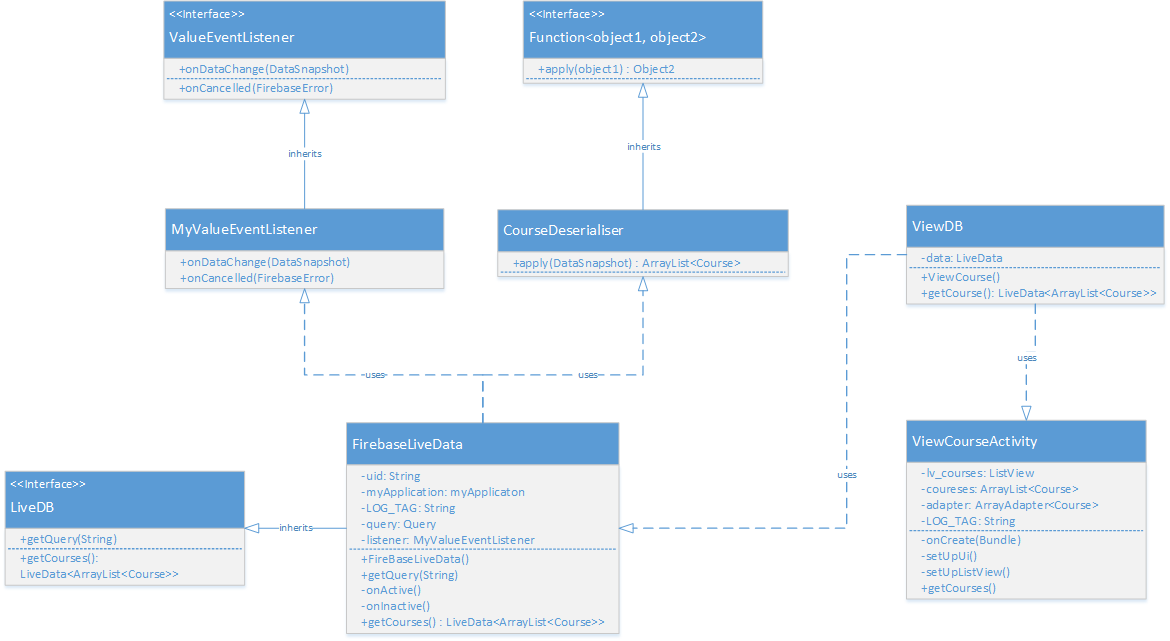
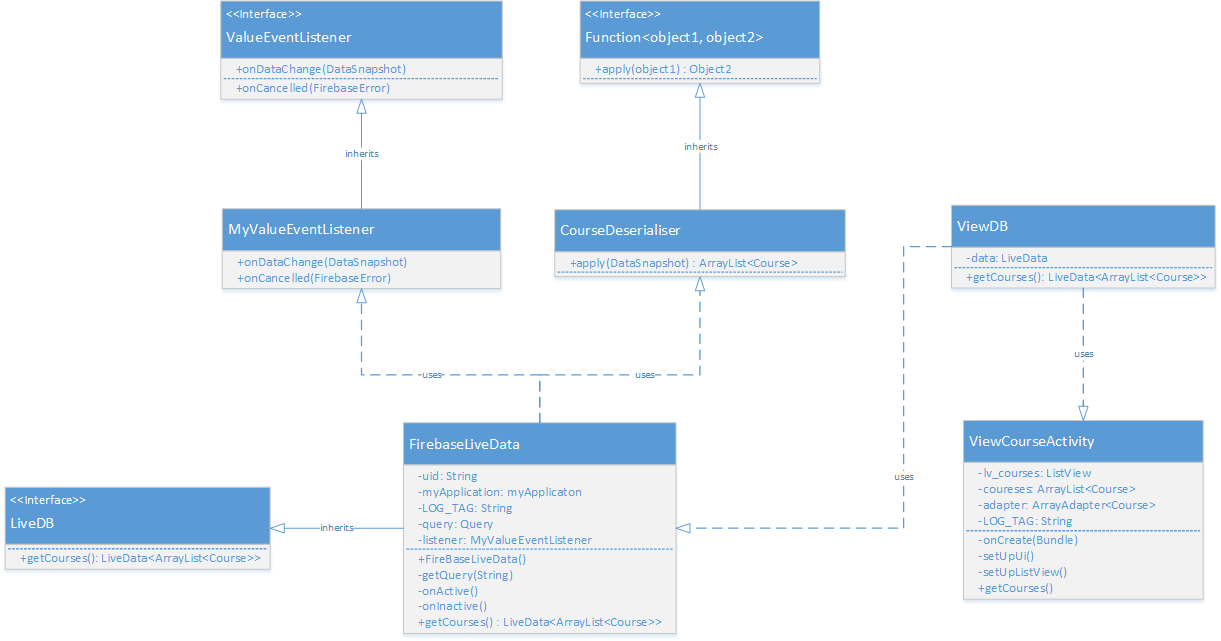
Final changes with code and updated diagrams

diff --git a/app/src/main/java/com/jevon/studentrollrecorder/ViewCoursesActivity.java b/app/src/main/java/com/jevon/studentrollrecorder/ViewCoursesActivity.java
@@ -13,7 +13,7 @@ import android.widget.ListView;
 import android.widget.Toast;
 
 import android.arch.lifecycle.Observer;
-import com.jevon.studentrollrecorder.observers.ViewCourse;
+import com.jevon.studentrollrecorder.mediators.ViewDB;
 import com.jevon.studentrollrecorder.pojo.Course;
 import com.jevon.studentrollrecorder.utils.Utils;
 
@@ -23,7 +23,7 @@ import java.util.ArrayList;
 
 public class ViewCoursesActivity extends AppCompatActivity{
     private ListView lv_courses;
-    private ViewCourse viewModel;
+    private ViewDB viewModel;
     private ArrayList<Course> courses;
     private ArrayAdapter<Course> adapter;
     private static final String LOG_TAG = "ViewCourseActivity";
@@ -33,7 +33,7 @@ public class ViewCoursesActivity extends AppCompatActivity{
         super.onCreate(savedInstanceState);
         setContentView(R.layout.activity_view_courses);
         Toolbar toolbar = (Toolbar) findViewById(R.id.toolbar);
-        viewModel = new ViewCourse();
+        viewModel = new ViewDB();
         setSupportActionBar(toolbar);
         setUpUI();
         setUpListView();
@@ -71,11 +71,11 @@ public class ViewCoursesActivity extends AppCompatActivity{
 
     /**
      * 04086518
-     * ViewCourseActivity observes the ViewCourse to see if any data changes occur
+     * ViewCourseActivity observes the ViewDB to see if any data changes occur
      * and udpates the list of courses as necessary.
      */
     public void getCourses(){
-        viewModel.getCourseLiveData().observe(this, new Observer<ArrayList<Course>>(){
+        viewModel.getCourses().observe(this, new Observer<ArrayList<Course>>(){
             @Override
             public void onChanged(ArrayList<Course> courses) {
             if (courses.isEmpty() ){

diff --git a/app/src/main/java/com/jevon/studentrollrecorder/mediators/ViewDB.java b/app/src/main/java/com/jevon/studentrollrecorder/mediators/ViewDB.java
@@ -1,23 +1,22 @@
-package com.jevon.studentrollrecorder.observers;
+package com.jevon.studentrollrecorder.mediators;
 
 import android.arch.lifecycle.LiveData;
 import android.arch.lifecycle.ViewModel;
 
 import com.jevon.studentrollrecorder.interfaces.LiveDB;
+import com.jevon.studentrollrecorder.observers.FirebaseLiveData;
 import com.jevon.studentrollrecorder.pojo.Course;
 
 import java.util.ArrayList;
 
-/**
- * Will be used as an observer
- */
-public class ViewCourse {
+
+public class ViewDB {
     private LiveDB data;
 
     /**
      * Creata a new instance of FirebaseLiveData
      */
-    public ViewCourse(){
+    public ViewDB(){
         data = new FirebaseLiveData();
     }
 
@@ -25,7 +24,7 @@ public class ViewCourse {
      * Returns ArrayList of Courses using the firebaseLiveData
      * @return
      */
-    public LiveData<ArrayList<Course>> getCourseLiveData(){
+    public LiveData<ArrayList<Course>> getCourses(){
         return data.getCourses();
     }
 }
